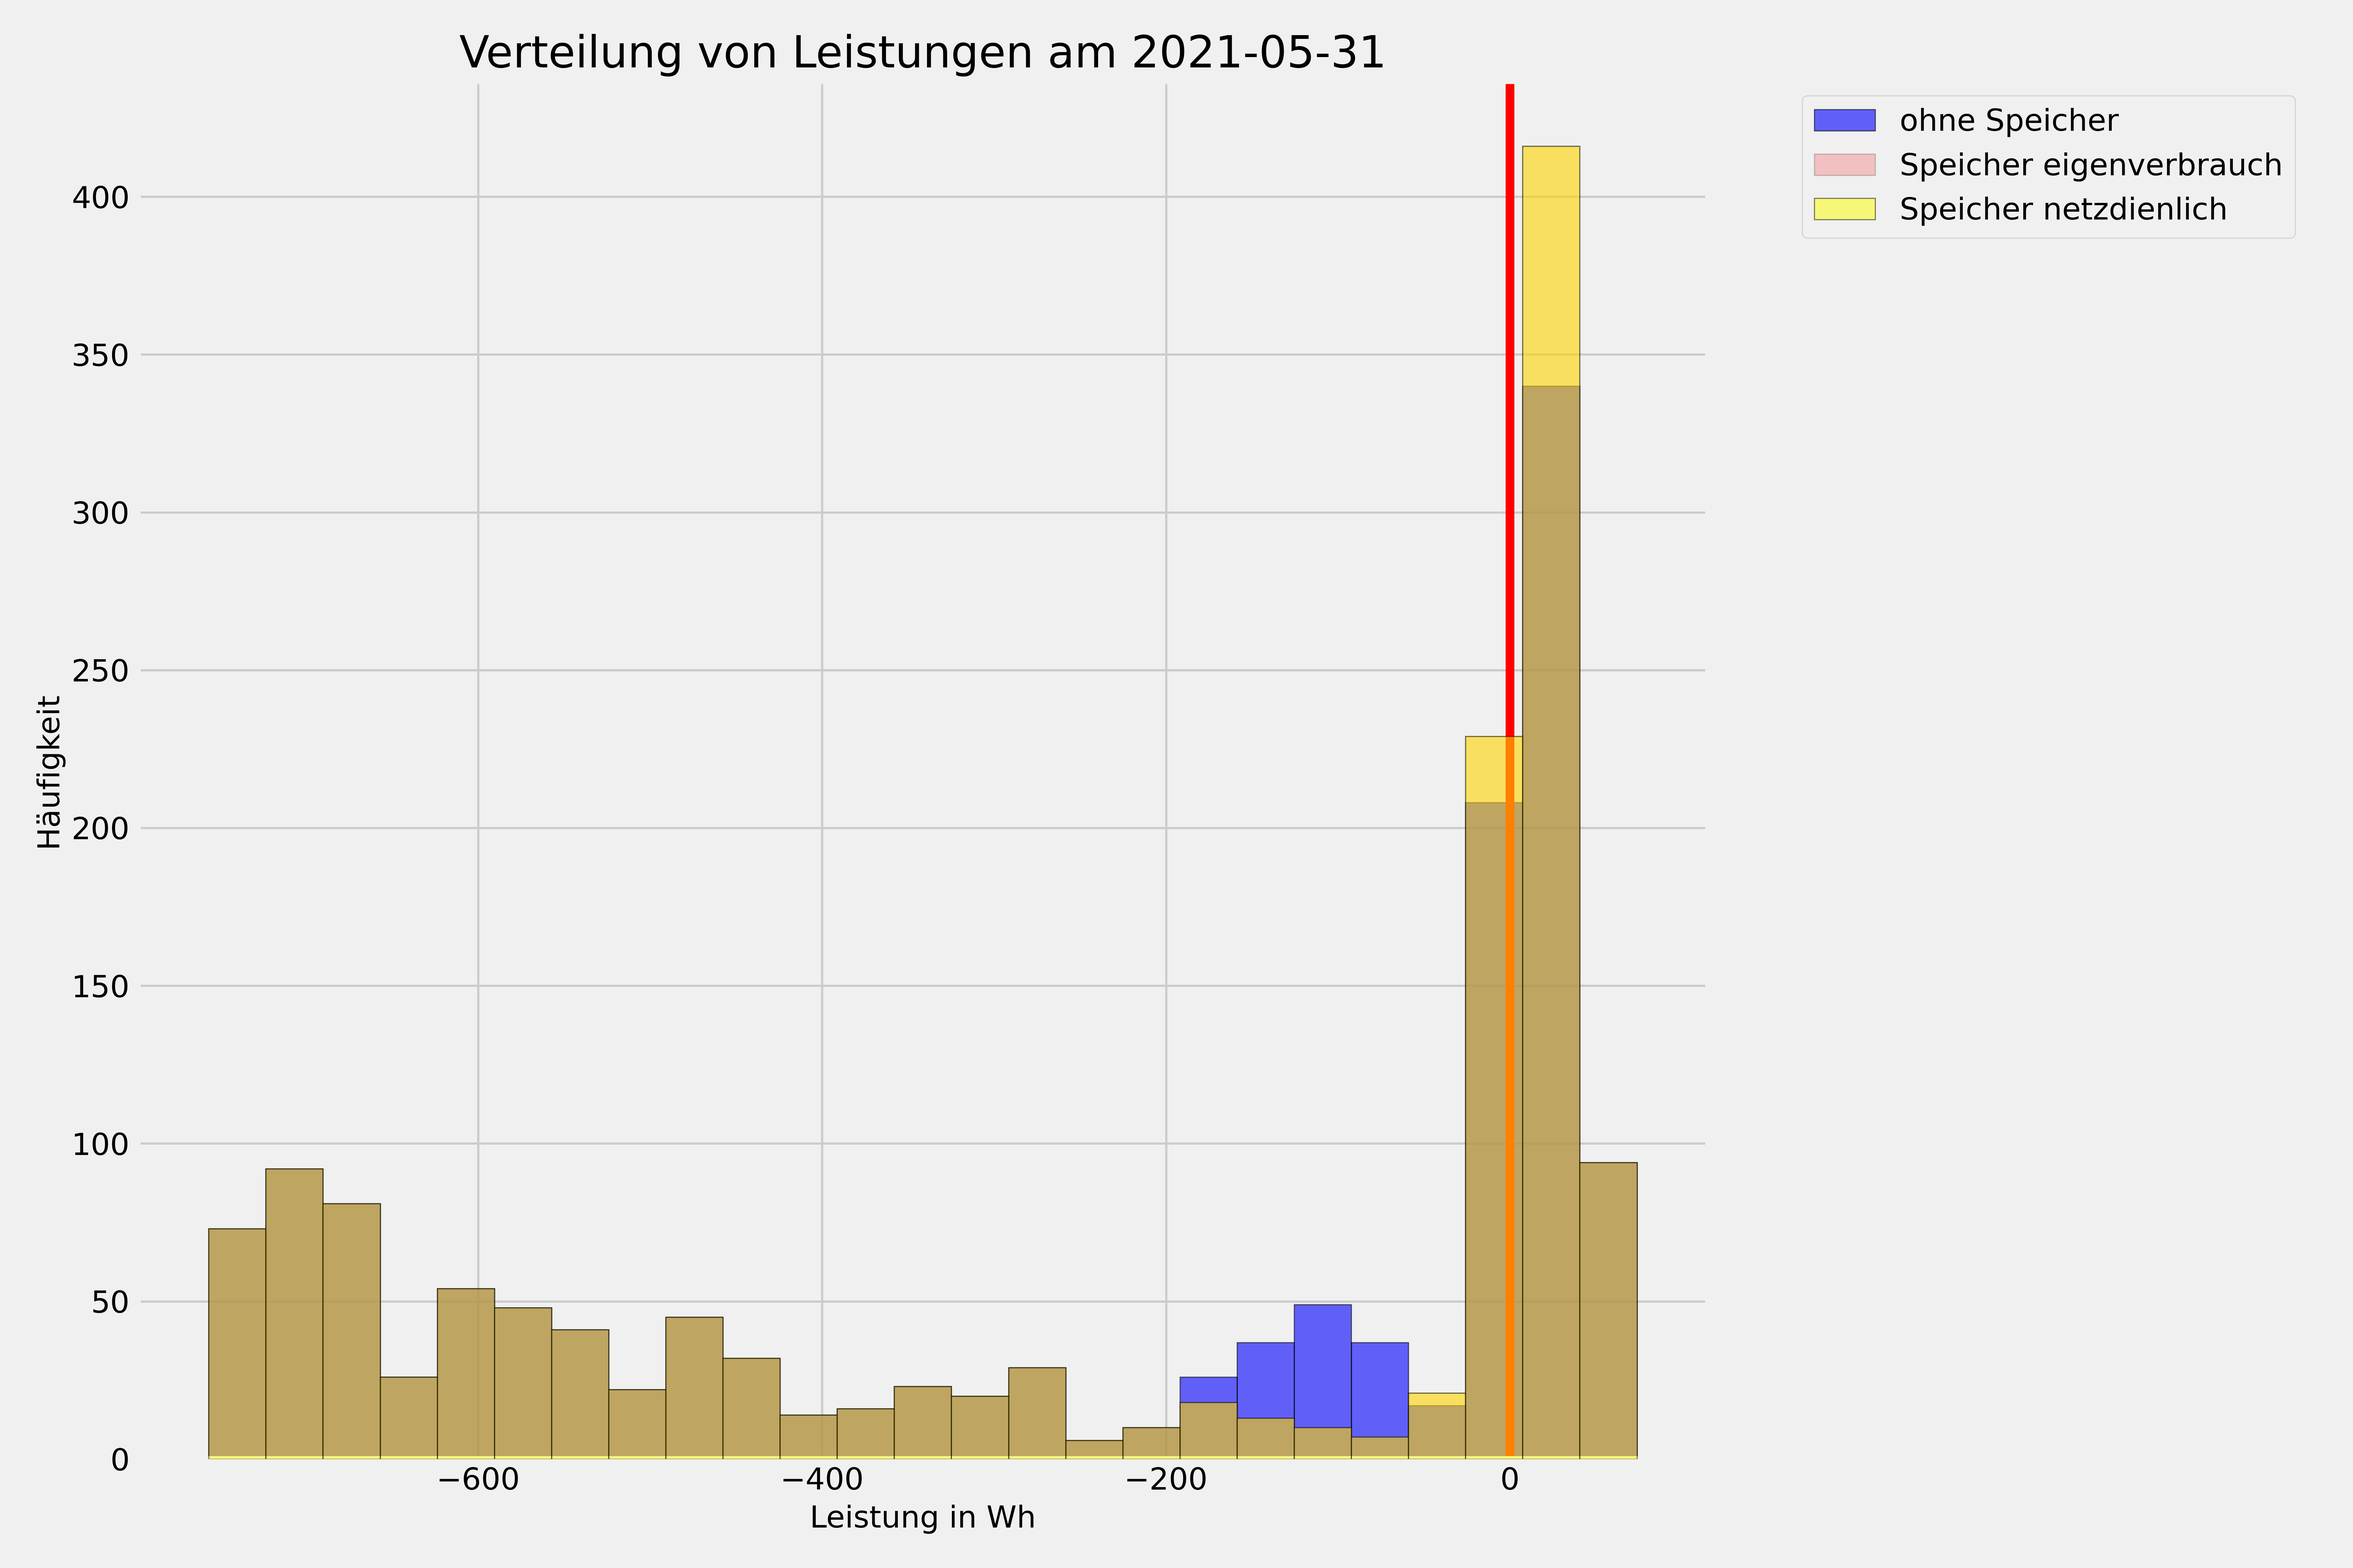
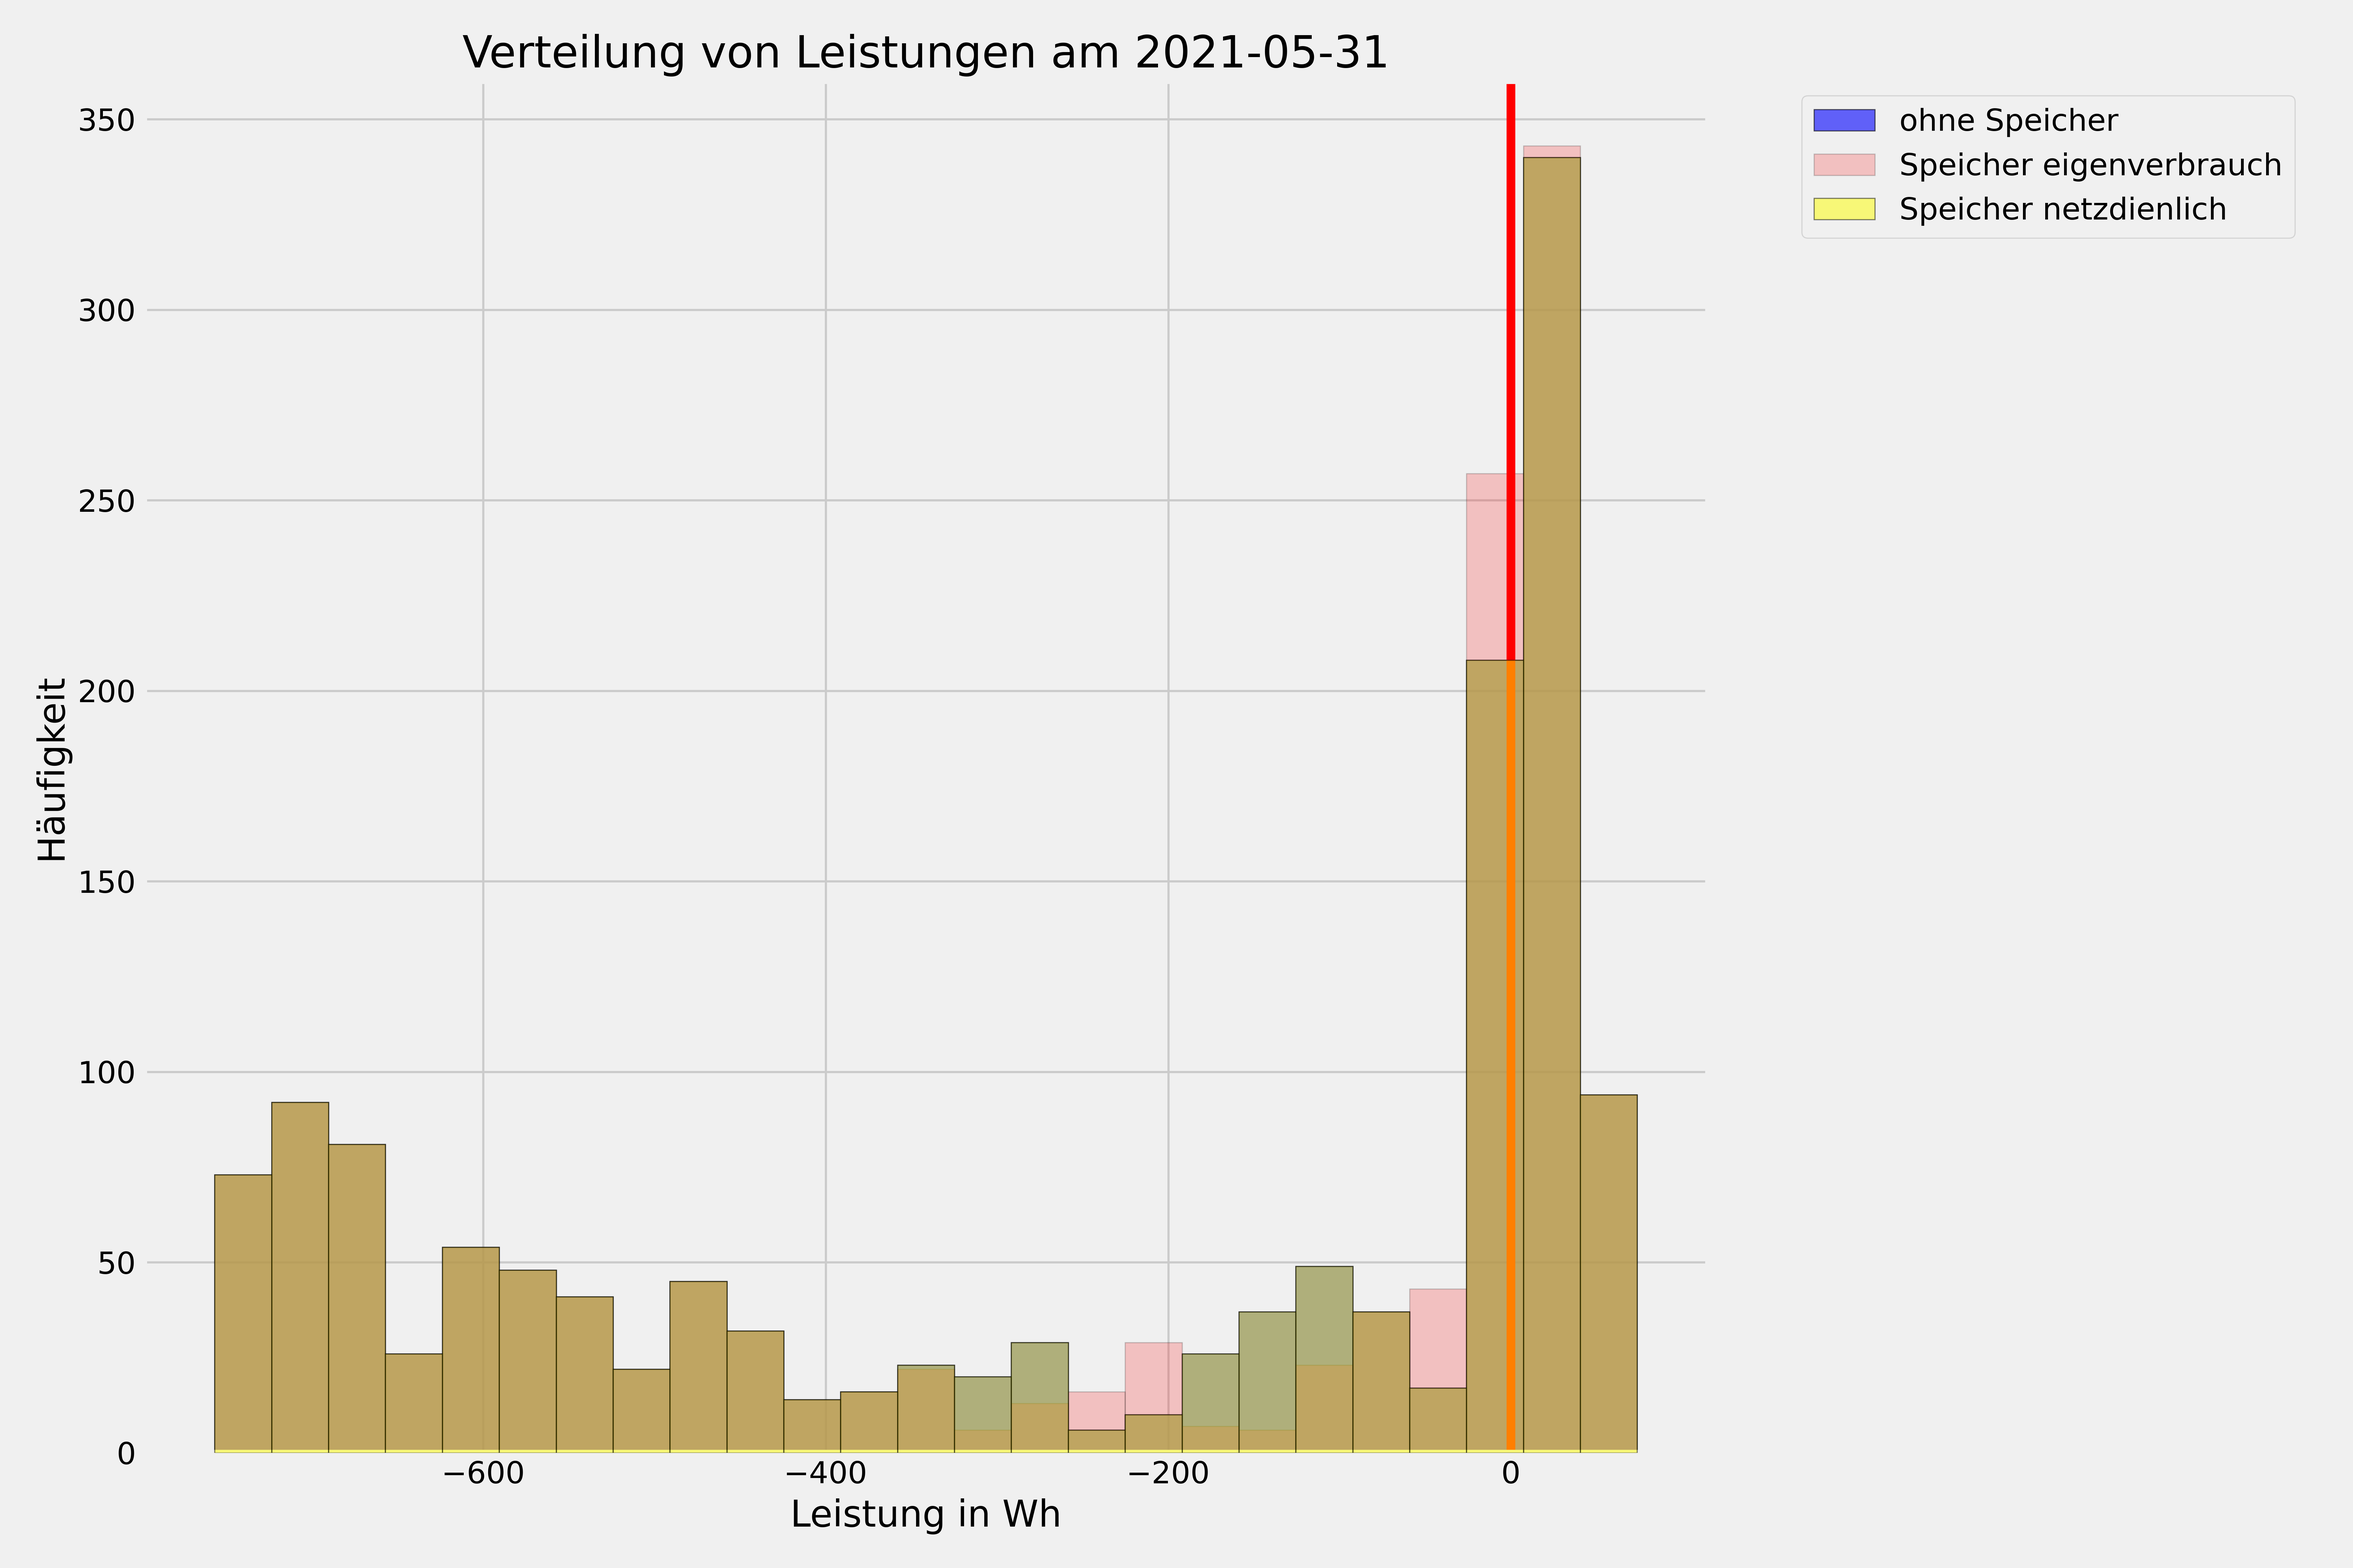
working graph

diff --git a/main.py b/main.py
@@ -70,14 +70,16 @@ def main():
 
 				print(f"--- Simulation Batterie nach netzdienlich mit {size} Wh---")
 
-				cal_gridfriendly(df=batterypower_df,
-				                 soc_start=soc_start,
-				                 speichergroesse=size,
-				                 p_max_in=p_max_in,
-				                 p_max_out=p_max_out,
-				                 p_min_in=p_min_in,
-				                 p_min_out=p_min_out
-				                 )
+				batterypower_df, df_day = cal_gridfriendly(df=batterypower_df,
+				                                   soc_start=soc_start,
+				                                   speichergroesse=size,
+				                                   p_max_in=p_max_in,
+				                                   p_max_out=p_max_out,
+				                                   p_min_in=p_min_in,
+				                                   p_min_out=p_min_out,
+				                                   startday=startday,
+				                                   endday=endday
+				                                   )
 
 				print(f'--- Save Netz PV Speicher netzdienlich als pickle ---')
 				batterypower_df.to_pickle(f'documents/netz_pv_mit_speichersimulation_netzdienlich.pkl')
@@ -90,14 +92,14 @@ def main():
 		# for day in selection_days_start:
 		#   startday = day
 		for size in speichergroessen:
-			plot_power(df=batterypower_df,
-			           startday=startday,
-			           endday=endday,
+			plot_power(df=df_day,
+			           startday=0,
+			           endday=1,
 			           size=size
 			           )
-			plot_power_freq_dist(df=batterypower_df,
-			                     startday=startday,
-			                     endday=endday,
+			plot_power_freq_dist(df=df_day,
+			                     startday=0,
+			                     endday=1,
 			                     size=size
 			                     )
 
@@ -131,13 +133,13 @@ def plot_for_selected_days(daystep, speichergroessen, base_data, soc_start, use_
 
 				print(f"--- Simulation Batterie nach netzdienlich mit {size} Wh---")
 				batterypower_df = cal_gridfriendly(df=batterypower_df,
-				                                           soc_start=soc_start,
-				                                           speichergroesse=size,
-				                                           p_max_in=p_max_in,
-				                                           p_max_out=p_max_out,
-				                                           p_min_out=p_min_out,
-				                                           p_min_in=p_min_in
-				                                           ) # oder cal_battery_gridfriendly
+				                                   soc_start=soc_start,
+				                                   speichergroesse=size,
+				                                   p_max_in=p_max_in,
+				                                   p_max_out=p_max_out,
+				                                   p_min_out=p_min_out,
+				                                   p_min_in=p_min_in
+				                                   )  # oder cal_battery_gridfriendly
 
 				print(f'--- Save Netz PV Speicher netzdienlich als pickle ---')
 				batterypower_df.to_pickle(f'documents/netz_pv_mit_speichersimulation_netzdienlich.pkl')
@@ -463,6 +465,7 @@ def cal_battery_own_consumption(netz_pv, speichergroesse, soc_start=None):
 
 	return netz_pv, p_max_in, p_max_out, p_min_in, p_min_out  # Leistungen_Speicher_eigenverbrauch
 
+
 """
 def cal_battery_gridfriendly(df, speichergroesse,
                              p_max_in, p_max_out, p_min_in, p_min_out,
@@ -509,7 +512,8 @@ def cal_battery_gridfriendly(df, speichergroesse,
 	return df
 	"""
 
-def cal_gridfriendly(df, speichergroesse, p_max_in, p_max_out, p_min_in, p_min_out, soc_start=None):
+
+def cal_gridfriendly(df, speichergroesse, p_max_in, p_max_out, p_min_in, p_min_out, startday, endday, soc_start=None, ):
 	"""
 # battery parameter by the size
 	:param df:
@@ -522,12 +526,11 @@ def cal_gridfriendly(df, speichergroesse, p_max_in, p_max_out, p_min_in, p_min_o
 	:return:
 	"""
 
-	for day in list(range(0, 365, 1)):
-		startday = day
-		endday = startday + 1
+	for day in list(range(startday, endday, 1)):  # now limited to 1 day
 		start_idx = startday * 1440
 		end_idx = endday * 1440
-
+		print(f'{start_idx=}')
+		print(f'{end_idx=}')
 		assert start_idx < end_idx
 
 		batt_reached_peak = False
@@ -538,13 +541,12 @@ def cal_gridfriendly(df, speichergroesse, p_max_in, p_max_out, p_min_in, p_min_o
 		netzbezug = []  # result amuont of power form the grid
 		netzeinspeisung = []  # result amuont of power to the grid
 		netzleistung = []  # grid power
-
 		if soc_start and day == 0:
 			soc_akt = soc_start  # This represents an opportunity to specify a defined state of charge.
 		elif day == 0:
 			soc_akt = soc_max / 2  # assumption: 45% charged at startup
 		else:
-			soc_akt = df[f'current_soc_{speichergroesse}Wh_netzdienlich'].iloc[start_idx - 1]
+			soc_akt = df[f'current_soc_{speichergroesse}Wh_eigenverbrauch'].iloc[start_idx - 1] # TODO
 
 		df_day = df.iloc[start_idx:end_idx].copy(deep=True)
 
@@ -555,10 +557,7 @@ def cal_gridfriendly(df, speichergroesse, p_max_in, p_max_out, p_min_in, p_min_o
 			p_ist = 0
 
 			# Show network interface whether import or withdrawal takes place
-			p_soll = (row['GridPowerIn'] - row['GridPowerOut'])
-			print(f'{p_soll=}')
-			print(type(p_soll))
-			# p_soll = float(p_soll)
+			p_soll = float(row['GridPowerIn']) - float(row['GridPowerOut'])
 
 			if p_soll >= 0:  # check for positive
 				# p_supply = p_soll * (1 + (1 - eta))  # factor in losses
@@ -621,16 +620,16 @@ def cal_gridfriendly(df, speichergroesse, p_max_in, p_max_out, p_min_in, p_min_o
 		# check if optimization is needed
 		if batt_reached_peak:
 			df_day, last_soc = charge_gridfriendly(df=df_day,
-			                             speichergroesse=speichergroesse,
-			                             p_max_in=p_max_in,
-			                             p_max_out=p_max_out,
-			                             p_min_in=p_min_in,
-			                             p_min_out=p_min_out
-			                             )
+			                                       speichergroesse=speichergroesse,
+			                                       p_max_in=p_max_in,
+			                                       p_max_out=p_max_out,
+			                                       p_min_in=p_min_in,
+			                                       p_min_out=p_min_out
+			                                       )
 
 		# df.append(df_day)  # TODO correct merging
 		df = pd.concat([df, df_day], axis=1)
-	return df
+	return df, df_day
 
 
 def charge_gridfriendly(df, speichergroesse, p_max_in, p_max_out, p_min_in, p_min_out):
@@ -728,7 +727,7 @@ def charge_gridfriendly(df, speichergroesse, p_max_in, p_max_out, p_min_in, p_mi
 			"""
 
 		if not row_optimized:
-			if row[f'soc_delta_{speichergroesse}Wh_netzdienlich'] < 0: # check for negativ soc_delta
+			if row[f'soc_delta_{speichergroesse}Wh_netzdienlich'] < 0:  # check for negativ soc_delta
 				p_ist = min(p_max_out, float(row['GridPowerIn']))  # Threshold for upper bound
 
 				if p_ist >= p_min_out:  # Threshold for lower bound
@@ -749,13 +748,12 @@ def charge_gridfriendly(df, speichergroesse, p_max_in, p_max_out, p_min_in, p_mi
 				p_ist = 0
 				soc_delta = 0
 
-		else: # if row_optimized:
+		else:  # if row_optimized:
 			soc_delta = df[f'soc_delta_{speichergroesse}Wh_netzdienlich'][index]
 			p_delta = df[f'p_delta_{speichergroesse}Wh_netzdienlich'][index]
 			p_netzeinspeisung = df[f'p_netzeinspeisung_{speichergroesse}Wh_netzdienlich'][index]
 
-
-			if row[f'GridPowerOut'] - p_delta <0:
+			if row[f'GridPowerOut'] - p_delta < 0:
 				# änderung von wert p_delta
 				p_delta = row[f'GridPowerOut']
 				if p_delta < p_min_in:
@@ -772,7 +770,6 @@ def charge_gridfriendly(df, speichergroesse, p_max_in, p_max_out, p_min_in, p_mi
 				p_ist = 0
 				soc_delta = 0
 
-		print(f'Punkt 4')
 		if p_ist > 0:
 			p_netzbezug = row['GridPowerIn'] - max(p_ist, 0)
 		if p_ist < 0:
@@ -783,19 +780,18 @@ def charge_gridfriendly(df, speichergroesse, p_max_in, p_max_out, p_min_in, p_mi
 
 		p_netz = p_netzbezug - p_netzeinspeisung
 
-
 		soc.append(soc_ist)
 		p_deltas.append(p_ist)
 		soc_deltas.append(soc_delta)
 		netzbezug.append(p_netzbezug)
 		netzeinspeisung.append(p_netzeinspeisung)
 		netzleistung.append(p_netz)
-	print(f'Punkt 5')
-	df[f'p_delta_{speichergroesse}Wh_netzdienlich_temp'] = p_deltas
-	df[f'current_soc_{speichergroesse}Wh_netzdienlich_temp'] = soc
-	df[f'soc_delta_{speichergroesse}Wh_netzdienlich_temp'] = soc_deltas
-	df[f'p_netzbezug_{speichergroesse}Wh_netzdienlich_temp'] = netzbezug
-	df[f'p_netzeinspeisung_{speichergroesse}Wh_netzdienlich_temp'] = netzeinspeisung
+
+	df[f'p_delta_{speichergroesse}Wh_netzdienlich'] = p_deltas
+	df[f'current_soc_{speichergroesse}Wh_netzdienlich'] = soc
+	df[f'soc_delta_{speichergroesse}Wh_netzdienlich'] = soc_deltas
+	df[f'p_netzbezug_{speichergroesse}Wh_netzdienlich'] = netzbezug
+	df[f'p_netzeinspeisung_{speichergroesse}Wh_netzdienlich'] = netzeinspeisung
 	last_soc = soc_ist
 
 	return df, last_soc
@@ -822,7 +818,8 @@ def plot_power(df, startday, endday, size):
 	plt.plot(netzbezug_eigen, label='Speicher Eigenverbrauch', alpha=0.4, zorder=2)
 	plt.plot(einspeisung_eigen, label='Speicher Eigenverbrauch', alpha=0.4, zorder=2)
 
-	# Leistungsverlauf mit Quatierspeicher nach netzdienlich
+	# Leistungsverlauf mit Quartierspeicher nach netzdienlich
+
 	netzbezug_eigen = df[f'p_netzbezug_{size}Wh_netzdienlich'][startday * 1440:endday * 1440]
 	einspeisung_eigen = df[f'p_netzeinspeisung_{size}Wh_netzdienlich'][startday * 1440:endday * 1440]
 	einspeisung_eigen = einspeisung_eigen.mul(-1)
@@ -850,7 +847,7 @@ def plot_power(df, startday, endday, size):
 def plot_power_freq_dist(df, startday, endday, size, binsize=100):
 	assert startday < endday
 	bins = 25
-	date = df.index[startday * 1440 + 200]
+	date = df.index[startday * 1440]
 	date = date.strftime('%Y-%m-%d')
 	density = False
 	plt.style.use('fivethirtyeight')
@@ -858,7 +855,11 @@ def plot_power_freq_dist(df, startday, endday, size, binsize=100):
 	# Betrachtung der Leistungen am Netzpunkt ohne Quartierspeicher
 	netzbezug_pure = df[f'GridPowerIn'][startday * 1440:endday * 1440]
 	einspeisung_pure = df[f'GridPowerOut'][startday * 1440:endday * 1440]
+
 	min_out = einspeisung_pure.max()
+	print(f'{df.keys()=}')
+	print(f'{einspeisung_pure=}')
+	print(f'{min_out=}')
 	bins_out = math.ceil(min_out / binsize)
 	max_in = netzbezug_pure.max()
 	bins_in = math.ceil(max_in / binsize)
